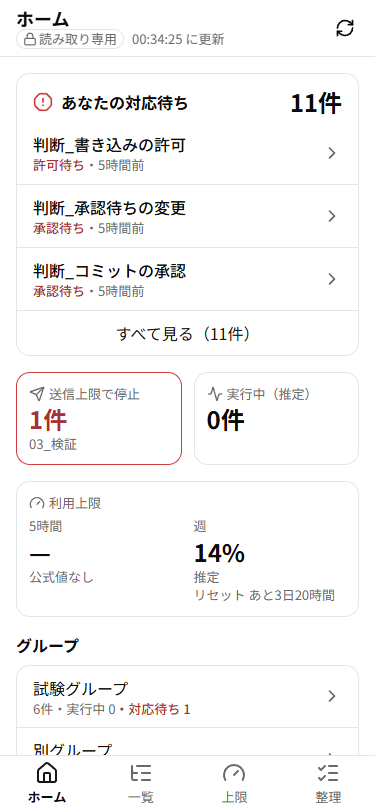
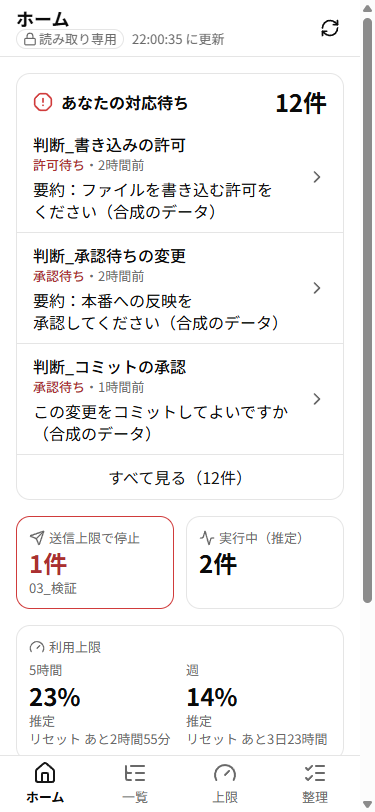
docs(指示47): スマホのホームの画像を問いの文が出る形に撮り直す
合成データ（29件）・幅375px・窓を出さない Electron で撮った。

要件: ND-15

diff --git a/docs/manual/使い方ガイド.md b/docs/manual/使い方ガイド.md
@@ -331,7 +331,7 @@ Claude Desktop のセッションを見るページ（ホームと、Claude Desk
 
 ![スマホから見る（PC の画面）。オン・オフ、端末の登録、登録した端末の一覧](images/15-lan-access.png)
 
-![スマホで見たホーム（幅375px）。上のバーに「読み取り専用」の印、下に4つのタブが出る](images/16-lan-phone.png)
+![スマホで見たホーム（幅375px）。上のバーに「読み取り専用」の印、対応待ちの上位3件に問いの文、下に4つのタブが出る](images/16-lan-phone.png)
 
 ![スマホで見たセッション一覧。1件を1枚のカードにし、絞り込みはボタン1つ](images/17-lan-phone-sessions.png)
 
